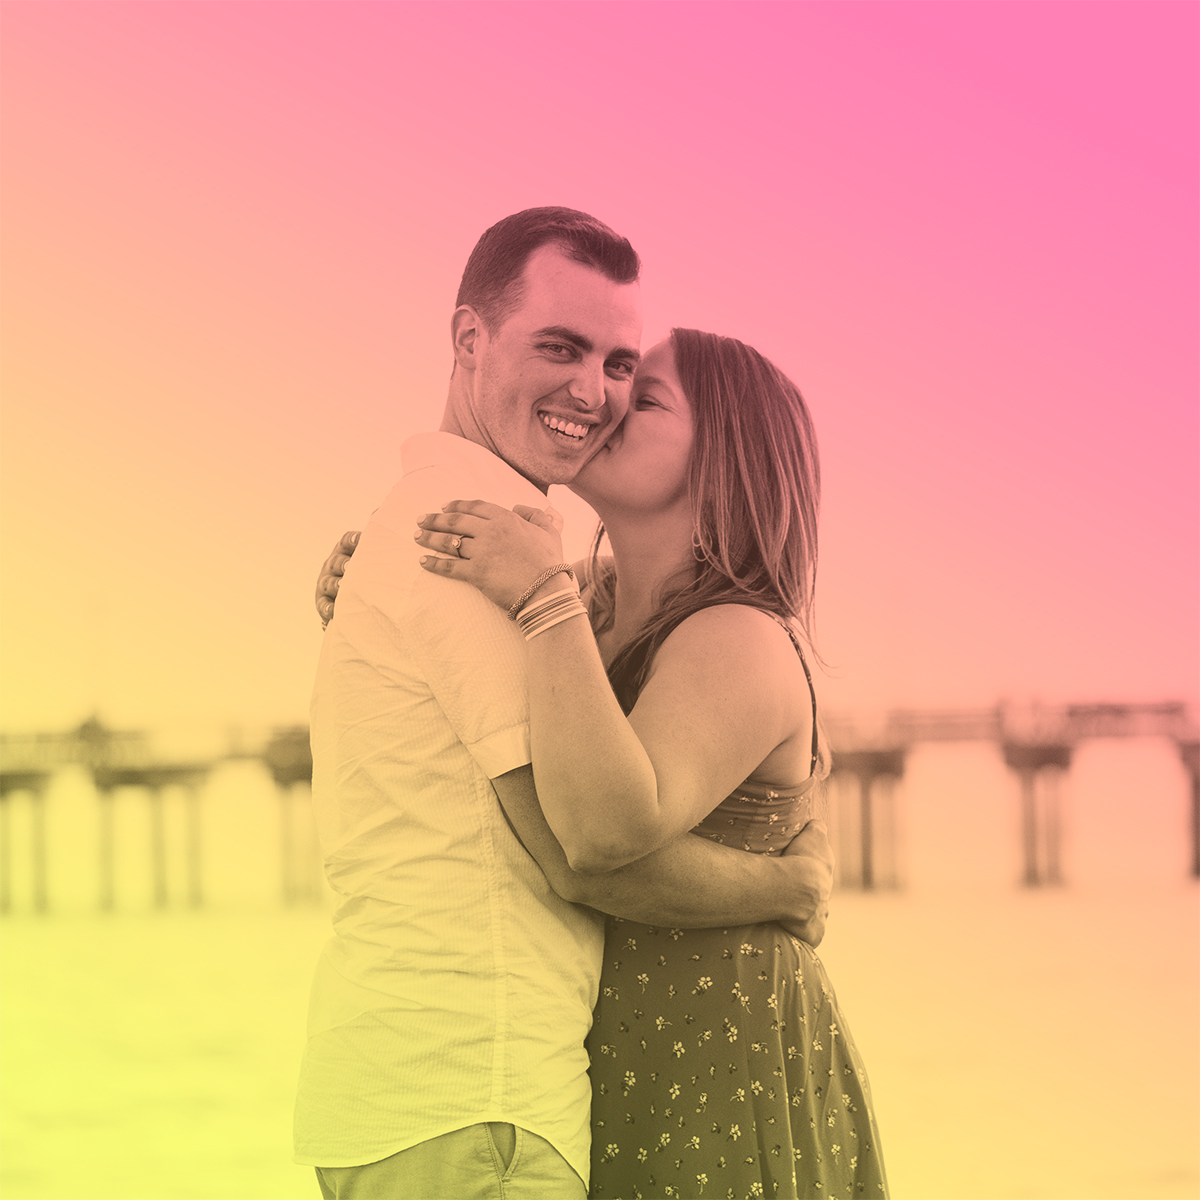
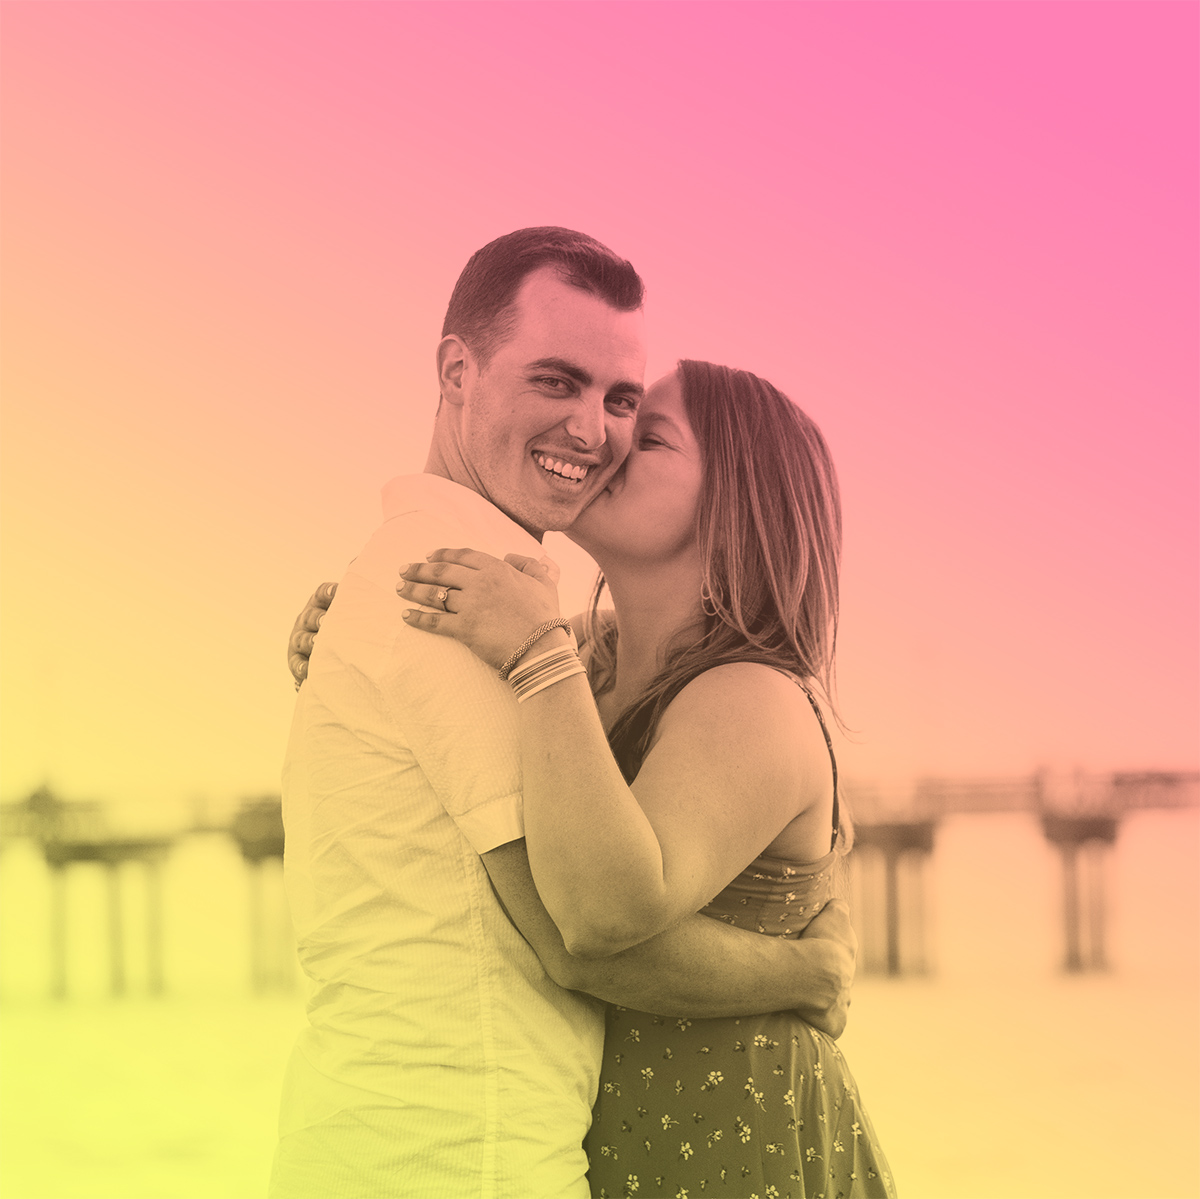
Update home

diff --git a/public/styles.css b/public/styles.css
@@ -155,7 +155,7 @@ header .menu {
 }
 
 .places .hero-bg {
-  background-image: url('./images/hero-2-1280.jpg');
+  background-image: url('./images/hero-6-1280.jpg');
 }
 
 .things .hero-bg {
@@ -276,7 +276,7 @@ nav a {
   max-width: 62rem;
   padding: 0 1rem;
   margin: 2rem auto;
-  min-height: calc(100vh - 16.5rem);
+  min-height: 66vh;
   font-weight: 300;
 }
 
@@ -352,9 +352,23 @@ nav a {
 }
 
 .card {
+  display: block;
   border: 1px solid #CACACA;
   border-radius: 0.5rem;
   overflow: hidden;
+  color: inherit;
+  text-decoration: none;
+}
+
+a.card {
+  color: #E8007B;
+  transition: background 250ms, color 250ms;
+}
+
+a.card:hover {
+  background: #E8007B;
+  border-color: transparent;
+  color: white;
 }
 
 .card img {
@@ -440,9 +454,13 @@ footer {
   border-top: 2px solid #00B5D3;
   background: #F5F9FA;
   color: #555;
-  padding: 1rem;
+  padding: 1.5rem 1rem;
   text-align: center;
   font-weight: 300;
+}
+
+footer p {
+  line-height: 1.75em;
 }
 
 footer .hashtag {

diff --git a/public/index.html b/public/index.html
@@ -29,9 +29,17 @@
             </div>
         </header>
         <div class="main">
-            <div class="spacer-4"></div>
-            <h1 class="grey">Wedding registry coming soon...</h1>
-            <div class="spacer-4"></div>
+            <a href="places.html" class="card">
+                <h1>Book your stay</h1>
+            </a>
+            <div class="spacer-2"></div>
+            <a href="people.html" class="card">
+                <h1>Meet the wedding party</h1>
+            </a>
+            <div class="spacer-2"></div>
+            <a href="questions.html" class="card">
+                <h1>Answer your questions</h1>
+            </a>
         </div>
         <footer>
             <p>July 6, 2019<br>Bedford, NH</p>

diff --git a/public/places.html b/public/places.html
@@ -24,7 +24,7 @@
         <header class="hero">
             <div data-jarallax data-speed="0.7" class="jarallax hero-bg">
                 <a href="menu.html" class="menu" alt="menu"></a>
-                <h1>Questions</h1>
+                <h1>Places</h1>
                 <div class="chevron-down"></div>
             </div>
         </header>
